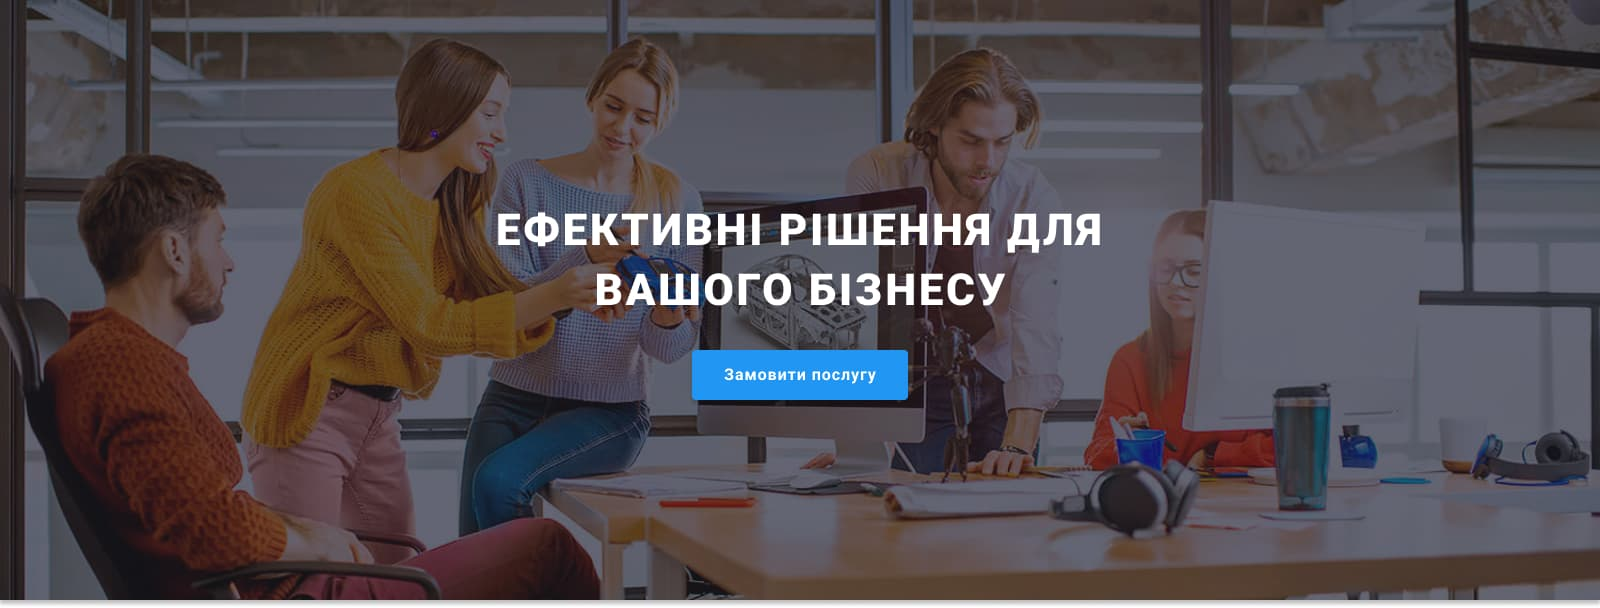
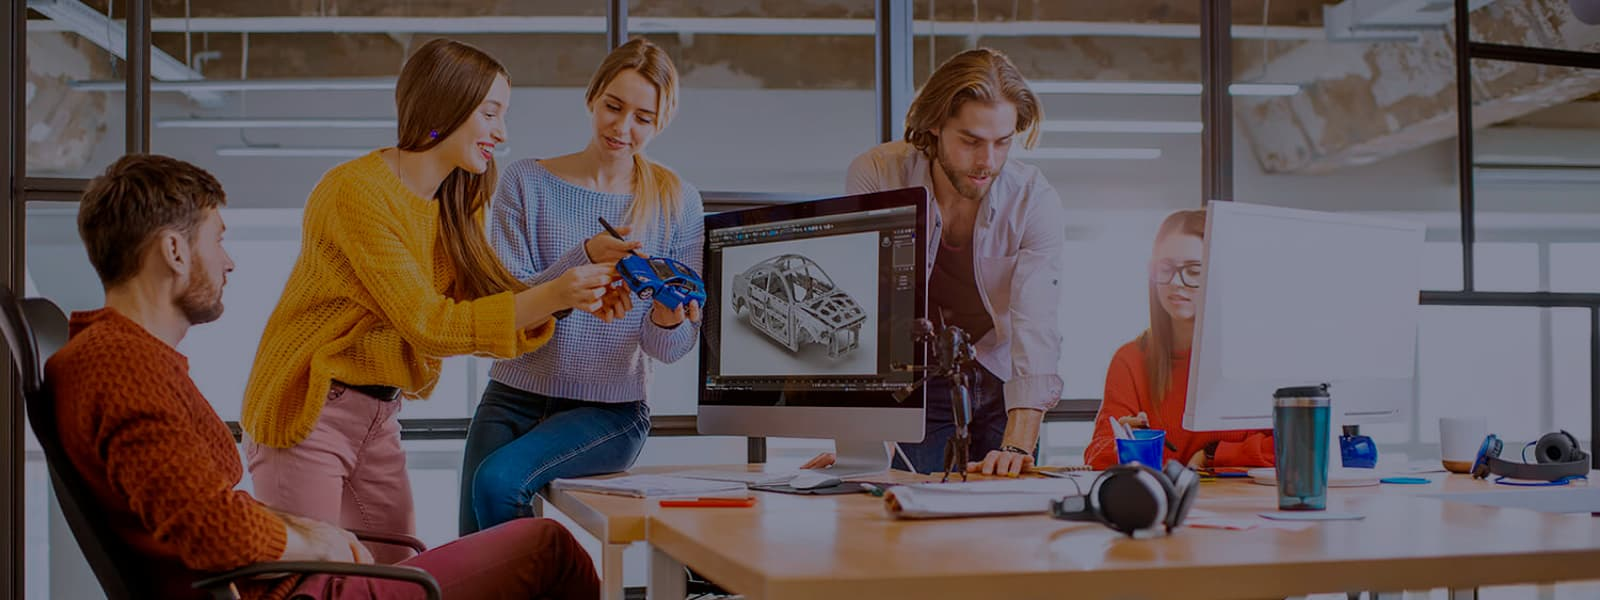
add elements

diff --git a/index.html b/index.html
@@ -51,25 +51,25 @@
       <div class="container preferens">
         <h2 class="visually-hidden">Наші переваги</h2>
         <ul class="list-item">
-          <li class="itempr">
+          <li class="itempr item-1">
             <h3 class="title-preferens">УВАГА ДО ДЕТАЛЕЙ</h3>
             <p class="p-preferens">
               Ідейні міркування, і навіть початок повсякденної роботи з формування позиції.
             </p>
           </li>
-          <li class="itempr">
+          <li class="itempr item-2">
             <h3 class="title-preferens">ПУНКТУАЛЬНІСТЬ</h3>
             <p class="p-preferens">
               Завдання організації, особливо рамки і місце навчання кадрів тягне у себе.
             </p>
           </li>
-          <li class="itempr">
+          <li class="itempr item-3">
             <h3 class="title-preferens">ПЛАНУВАННЯ</h3>
             <p class="p-preferens">
               Так само консультація з широким активом значною мірою зумовлює.
             </p>
           </li>
-          <li class="itempr">
+          <li class="itempr item-4">
             <h3 class="title-preferens">СУЧАСНІ ТЕХНОЛОГІЇ</h3>
             <p class="p-preferens">
               Значимість цих проблем настільки очевидна, що реалізація планових завдань.

diff --git a/css/styles.css b/css/styles.css
@@ -159,17 +159,18 @@ ul {
 
 .section-hero {
   max-width: 1600px;
-  background-color: var(--primary-background-color);
+  background: rgba(47, 48, 58, 0.4);
   text-align: center;
   padding-top: 200px;
   padding-bottom: 200px;
   margin-left: auto;
   margin-right: auto;
+  background-image: url(../images/hat.jpg);
 }
 
 .hero {
   display: block;
-  background-color: var(--primary-background-color);
+  /* background-color: var(--primary-background-color); */
 }
 
 .hero-title {
@@ -233,6 +234,50 @@ ul {
   font-size: 14px;
   line-height: 1.14;
   letter-spacing: 0.03em;
+}
+
+.item-1::before {
+  display: block;
+  content: '';
+  width: 270px;
+  height: 120px;
+  background: var(--color-btn-bg);
+  border-radius: 4px;
+  margin-bottom: 30px;
+  background-image: url(../images/SVG/Group\ 1.svg);
+}
+
+.item-2::before {
+  display: block;
+  content: '';
+  width: 270px;
+  height: 120px;
+  background: var(--color-btn-bg);
+  border-radius: 4px;
+  margin-bottom: 30px;
+  background-image: url(../images/SVG/Group\ 2.svg);
+}
+
+.item-3::before {
+  display: block;
+  content: '';
+  width: 270px;
+  height: 120px;
+  background: var(--color-btn-bg);
+  border-radius: 4px;
+  margin-bottom: 30px;
+  background-image: url(../images/SVG/Group\ 3.svg);
+}
+
+.item-4::before {
+  display: block;
+  content: '';
+  width: 270px;
+  height: 120px;
+  background: var(--color-btn-bg);
+  border-radius: 4px;
+  margin-bottom: 30px;
+  background-image: url(../images/SVG/Group\ 4.svg);
 }
 
 .p-preferens {
